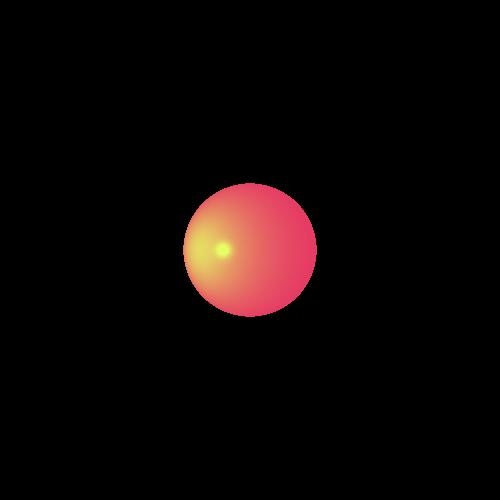
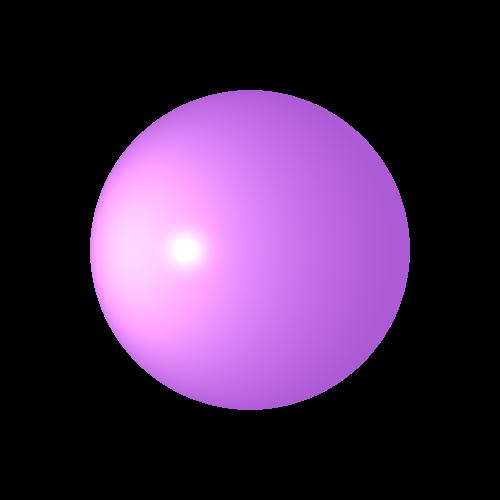
.

diff --git a/unittests/RenderTest.java b/unittests/RenderTest.java
@@ -25,6 +25,7 @@ import primitives.Vector;
 import renderer.ImageWriter;
 import renderer.Render;
 import scene.Scene;
+import sun.nio.cs.MS1250;
 import sun.print.resources.serviceui;
 
 /**
@@ -33,49 +34,45 @@ import sun.print.resources.serviceui;
  */
 public class RenderTest {
 
-	/*
-	 * @Test public void basicRendering(){
-	 * 
-	 * Date date = new Date();
-	 * 
-	 * Scene scene = new Scene("Test scene"); scene.set_camera(new Camera(new
-	 * Point3D(0.0, 0.0, 0.0), new Vector(0.0, -1.0, 0.0), new Vector(0.0, 0.0,
-	 * 1.0))); scene.set_distance(150); scene.set_background(new Color(0, 0,
-	 * 0)); Geometries geometries = new Geometries();
-	 * scene.set_geometries(geometries); scene.set_ambientLight(new
-	 * AmbientLight());
-	 * 
-	 * 
-	 * 
-	 * geometries.add(new Sphere(50, new Point3D(0, 0, 150), new Color(111,111,
-	 * 111), new Material(1, 0.8, 5)));
-	 * 
-	 * geometries.add(new Triangle(new Point3D( 100, 0, 149), new Point3D( 0,
-	 * 100, 149), new Point3D( 100, 100, 149), new Color(144,238,144), new
-	 * Material(1, 0.8, 5)));
-	 * 
-	 * geometries.add(new Triangle(new Point3D( 100, 0, 149), new Point3D( 0,
-	 * -100, 149), new Point3D( 100,-100, 149), new Color(205,92,92), new
-	 * Material(1, 0.8, 5)));
-	 * 
-	 * geometries.add(new Triangle(new Point3D(-100, 0, 149), new Point3D( 0,
-	 * 100, 149), new Point3D(-100, 100, 149), new Color(111,111, 111), new
-	 * Material(1, 0.8, 5)));
-	 * 
-	 * geometries.add(new Triangle(new Point3D(-100, 0, 149), new Point3D( 0,
-	 * -100, 149), new Point3D(-100, -100, 149), new Color(147,112,219), new
-	 * Material(1, 0.8, 5)));
-	 * 
-	 * ImageWriter imageWriter = new ImageWriter("test0", 500, 500, 500, 500);
-	 * 
-	 * Render render = new Render(imageWriter, scene);
-	 * 
-	 * render.renderImage(); render.printGrid(50); render.printImage();
-	 * 
-	 * System.out.println(new Date().getTime() - date.getTime()); }
-	 */
+/*	@Test
+	public void basicRendering() {
 
-	@Test
+		Date date = new Date();
+
+		Scene scene = new Scene("Test scene");
+		scene.set_camera(new Camera(new Point3D(0.0, 0.0, 0.0), new Vector(0.0, -1.0, 0.0), new Vector(0.0, 0.0, 1.0)));
+		scene.set_distance(150);
+		scene.set_background(new Color(0, 0, 0));
+		Geometries geometries = new Geometries();
+		scene.set_geometries(geometries);
+		scene.set_ambientLight(new AmbientLight());
+
+		geometries.add(new Sphere(50, new Point3D(0, 0, 150), new Color(111, 111, 111), new Material(1, 0.8, 5)));
+
+		geometries.add(new Triangle(new Point3D(100, 0, 149), new Point3D(0, 100, 149), new Point3D(100, 100, 149),
+				new Color(144, 238, 144), new Material(1, 0.8, 5)));
+
+		geometries.add(new Triangle(new Point3D(100, 0, 149), new Point3D(0, -100, 149), new Point3D(100, -100, 149),
+				new Color(205, 92, 92), new Material(1, 0.8, 5)));
+
+		geometries.add(new Triangle(new Point3D(-100, 0, 149), new Point3D(0, 100, 149), new Point3D(-100, 100, 149),
+				new Color(111, 111, 111), new Material(1, 0.8, 5)));
+
+		geometries.add(new Triangle(new Point3D(-100, 0, 149), new Point3D(0, -100, 149), new Point3D(-100, -100, 149),
+				new Color(147, 112, 219), new Material(1, 0.8, 5)));
+
+		ImageWriter imageWriter = new ImageWriter("test0", 500, 500, 500, 500);
+
+		Render render = new Render(imageWriter, scene);
+
+		render.renderImage();
+		//render.printGrid(50);
+		render.printImage();
+
+		System.out.println(new Date().getTime() - date.getTime());
+	}*/
+
+	/*@Test
 	public void directionalLightRendering() {
 
 		Date date = new Date();
@@ -96,27 +93,27 @@ public class RenderTest {
 		Render render = new Render(imageWriter, scene);
 
 		render.renderImage();
-		//render.printGrid(50);
+		// render.printGrid(50);
 		render.printImage();
 
 		System.out.println(new Date().getTime() - date.getTime());
-	}
+	}*/
 
-	@Test
+	/*@Test
 	public void pointLightRendering() {
 
 		Date date = new Date();
 
 		Scene scene = new Scene("Test scene pointLight");
 		scene.set_camera(new Camera(new Point3D(0.0, 0.0, 0.0), new Vector(0.0, 1.0, 0.0), new Vector(0.0, 0.0, -1.0)));
-		scene.set_distance(50);
+		scene.set_distance(120);
 		scene.set_background(new Color(0, 0, 0));
 		Geometries geometries = new Geometries();
 		scene.set_geometries(geometries);
 		scene.set_ambientLight(new AmbientLight(new Color(30, 30, 30), 1));
 
-		scene.get_lights().add(new PointLight(new Point3D(3, 0, 0), 1, 0, 0.1, new Color(0, 255, 0)));
-		geometries.add(new Sphere(8, new Point3D(0, 0, -10), new Color(200, 30, 70), new Material(0.8, 1, 20)));
+		scene.get_lights().add(new PointLight(new Point3D(3, 0, 0), 1, 0, 0.1, new Color(230, 200, 150)));
+		geometries.add(new Sphere(8, new Point3D(0, 0, -10), new Color(143, 60, 185), new Material(0.9, 1, 20)));
 
 		ImageWriter imageWriter = new ImageWriter("testPoint", 500, 500, 500, 500);
 
@@ -127,9 +124,9 @@ public class RenderTest {
 		render.printImage();
 
 		System.out.println(new Date().getTime() - date.getTime());
-	}
+	}*/
 
-	@Test
+	/*@Test
 	public void spotLightRendering() {
 
 		Date date = new Date();
@@ -143,7 +140,7 @@ public class RenderTest {
 		scene.set_ambientLight(new AmbientLight());
 		geometries.add(new Sphere(50, new Point3D(0, 0, 150), new Color(0, 0, 70), new Material(1, 1, 12)));
 		Vector Dir = new Point3D(0, 0, 150).subtract(new Point3D(60, 60, 61));
-		scene.get_lights().add(new SpotLight(new Point3D(0, 0, 1), 1, 0.31, 0.7, new Color(100, 100, 100),
+		scene.get_lights().add(new SpotLight(new Point3D(35, -15, 1), 1, 0.7, 0.4, new Color(100, 100, 100),
 				Dir.subtract(new Vector(9, 0, 3))));
 
 		ImageWriter imageWriter = new ImageWriter("testSpot", 500, 500, 500, 500);
@@ -155,9 +152,45 @@ public class RenderTest {
 		render.printImage();
 
 		System.out.println(new Date().getTime() - date.getTime());
-	}
+	}*/
 
 	@Test
+	public void trianglesLightRendering() {
+
+		Date date = new Date();
+
+		Scene scene = new Scene("Test scene pointLight with triangle");
+		scene.set_camera(new Camera(new Point3D(0.0, 0.0, 0.0), new Vector(0.0, -1.0, 0.0), new Vector(0.0, 0.0, 1.0)));
+		scene.set_distance(150);
+		scene.set_background(new Color(0, 0, 0));
+		Geometries geometries = new Geometries();
+		scene.set_geometries(geometries);
+		scene.set_ambientLight(new AmbientLight(new Color(30, 30, 30), 1));
+
+		//scene.get_lights().add(new PointLight(new Point3D(0, 0, -1), 1, 0, 0.1, new Color(200, 80, 80)));
+		scene.get_lights().add(new PointLight(new Point3D(3, 0, 0), 1, 0, 0.1, new Color(230, 200, 150)));
+		//scene.get_lights().add(new DirectionalLight(new Vector(-1, 1, 1), new Color(230, 85, 90)));
+		
+	
+		//geometries.add(new Triangle(new Point3D(300, 300, 149), new Point3D(-180, -200, 180), new Point3D(200, -200, 180),
+			//	new Color(20, 20, 20), new Material(1, 0.8, 5)));
+		//geometries.add(new Triangle(new Point3D(297, 300, 149), new Point3D(-183, -200, 180), new Point3D(-200, 300, 149),
+			//	new Color(20, 20, 20), new Material(1, 0.8, 5)));
+		geometries.add(new Sphere(8, new Point3D(0, 0, -10), new Color(143, 60, 185), new Material(0.9, 1, 20)));
+
+	
+		ImageWriter imageWriter = new ImageWriter("testTrianglesPoint", 500, 500, 500, 500);
+
+		Render render = new Render(imageWriter, scene);
+
+		render.renderImage();
+		// render.printGrid(50);
+		render.printImage();
+
+		System.out.println(new Date().getTime() - date.getTime());
+	}
+
+/*	@Test
 	public void shadowRendering() {
 
 		Date date = new Date();
@@ -169,11 +202,10 @@ public class RenderTest {
 		Geometries geometries = new Geometries();
 		scene.set_geometries(geometries);
 		scene.set_ambientLight(new AmbientLight());
-		geometries.add(new Sphere(50, new Point3D(0, 0, 150), new Color(0, 0, 70), new Material(1, 1, 12)));
+		geometries.add(new Sphere(50, new Point3D(0, 0, 150), new Color(0, 0, 70), new Material(0.8, 0.3, 20)));
 		Vector Dir = new Point3D(0, 0, 150).subtract(new Point3D(60, 60, 61));
 		scene.get_lights().add(new SpotLight(new Point3D(0, 0, 1), 1, 0.31, 0.7, new Color(100, 100, 100),
 				Dir.subtract(new Vector(9, 0, 3))));
-		
 
 		ImageWriter imageWriter = new ImageWriter("testShadow", 500, 500, 500, 500);
 
@@ -184,5 +216,5 @@ public class RenderTest {
 		render.printImage();
 
 		System.out.println(new Date().getTime() - date.getTime());
-	}
+	}*/
 }
